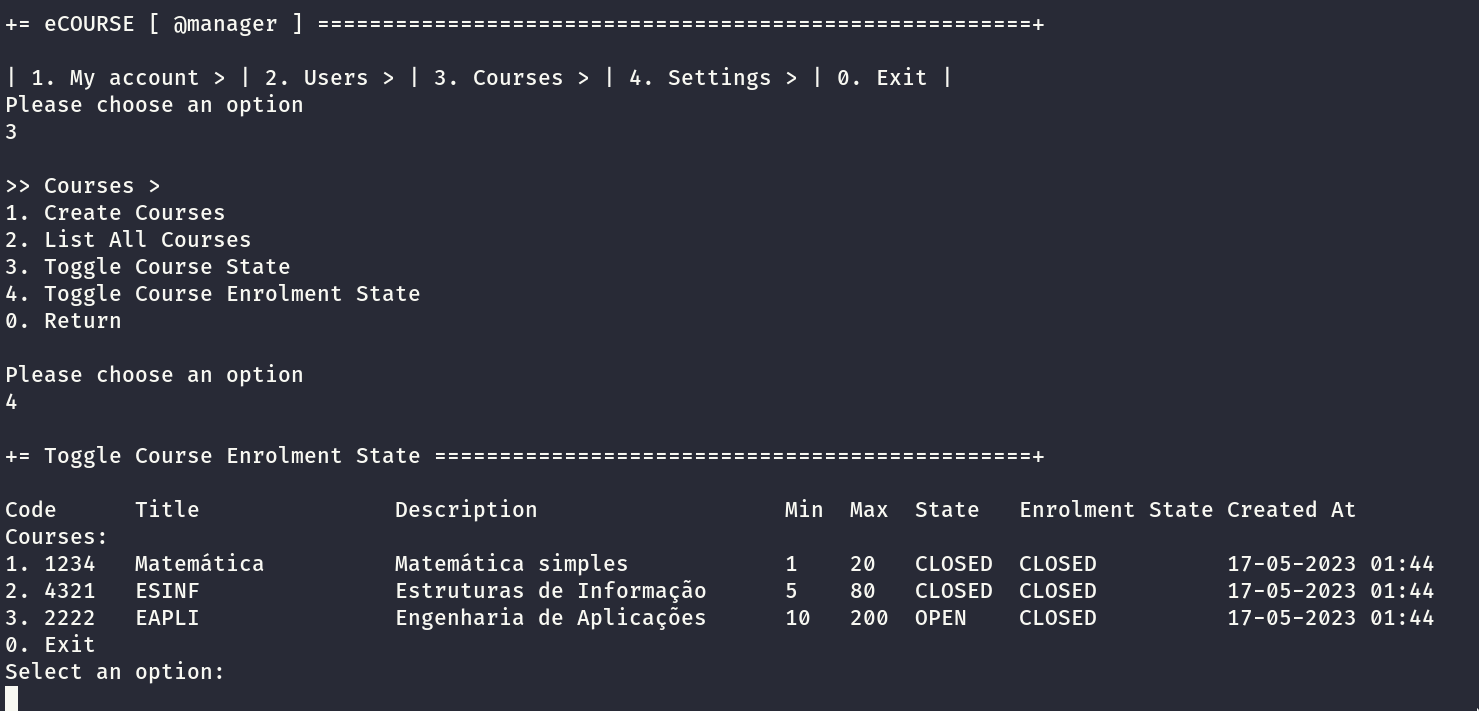
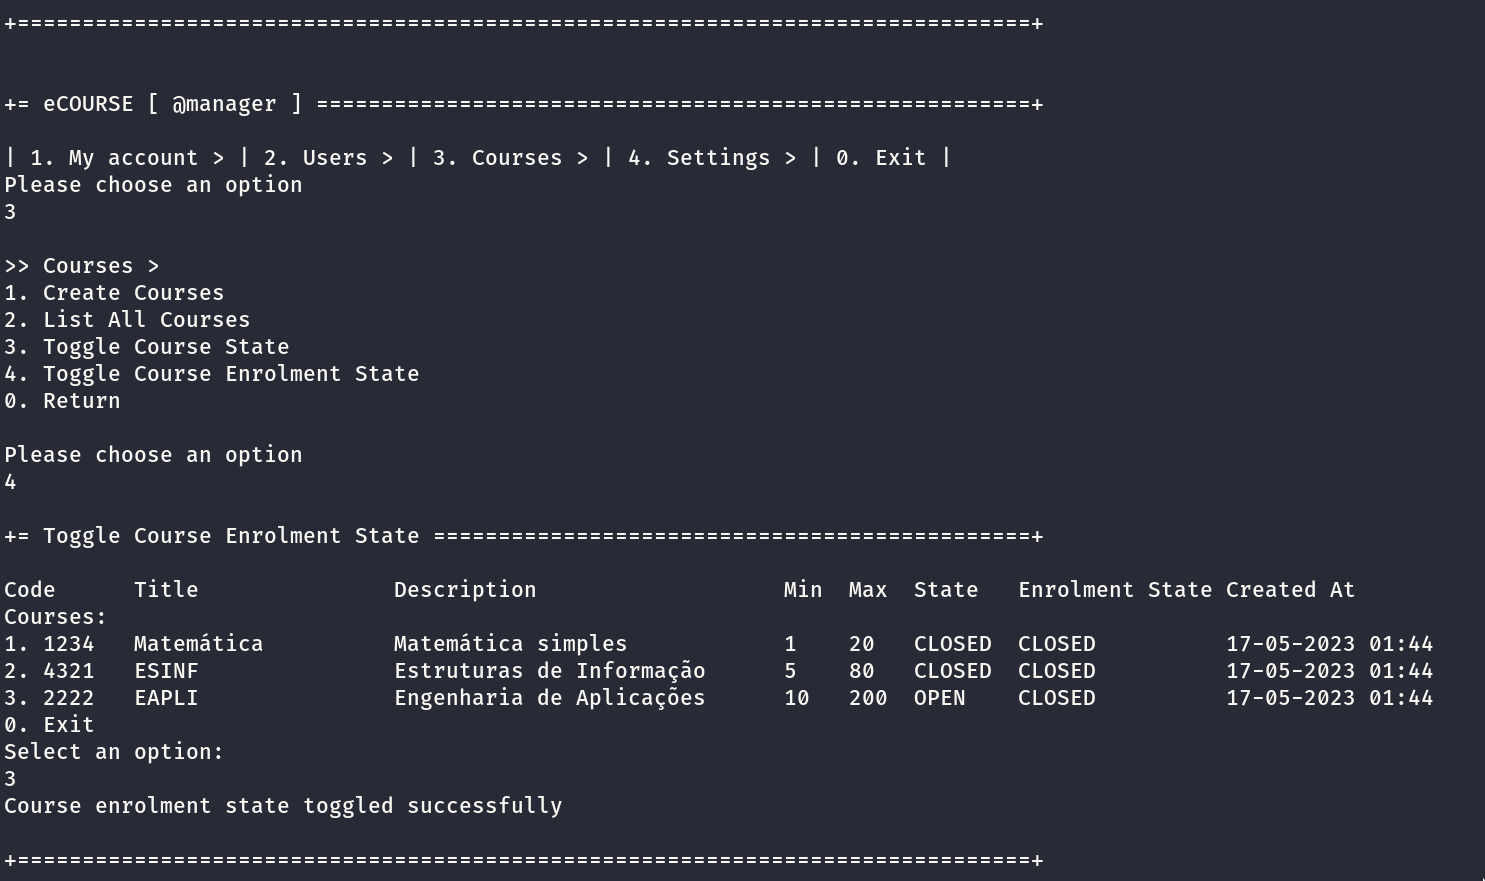
fix: fixed duplicated enrolment (#17)

diff --git a/ecourse.app.student.console/src/main/java/eapli/ecourse/app/student/console/presentation/MainMenu.java b/ecourse.app.student.console/src/main/java/eapli/ecourse/app/student/console/presentation/MainMenu.java
@@ -1,12 +1,15 @@
 package eapli.ecourse.app.student.console.presentation;
 
+import eapli.ecourse.Application;
 import eapli.ecourse.app.common.console.presentation.authz.MyUserMenu;
 import eapli.framework.actions.Actions;
 import eapli.framework.actions.menu.Menu;
 import eapli.framework.actions.menu.MenuItem;
 import eapli.framework.presentation.console.ExitWithMessageAction;
 import eapli.framework.presentation.console.ShowMessageAction;
+import eapli.framework.presentation.console.menu.HorizontalMenuRenderer;
 import eapli.framework.presentation.console.menu.MenuItemRenderer;
+import eapli.framework.presentation.console.menu.MenuRenderer;
 import eapli.framework.presentation.console.menu.VerticalMenuRenderer;
 
 /**
@@ -49,30 +52,40 @@ class MainMenu extends StudentBaseUI {
   @Override
   public boolean doShow() {
     final Menu menu = buildMainMenu();
-    final var renderer = new VerticalMenuRenderer(menu, MenuItemRenderer.DEFAULT);
+    final MenuRenderer renderer = getRenderer(menu);
+
     return renderer.render();
+  }
+
+  private MenuRenderer getRenderer(final Menu menu) {
+    final MenuRenderer theRenderer;
+    if (Application.settings().isMenuLayoutHorizontal()) {
+      theRenderer = new HorizontalMenuRenderer(menu, MenuItemRenderer.DEFAULT);
+    } else {
+      theRenderer = new VerticalMenuRenderer(menu, MenuItemRenderer.DEFAULT);
+    }
+    return theRenderer;
   }
 
   private Menu buildMainMenu() {
     final Menu mainMenu = new Menu();
 
+    if (!Application.settings().isMenuLayoutHorizontal())
+      mainMenu.addItem(MenuItem.separator(SEPARATOR_LABEL));
+
     final Menu myUserMenu = new MyUserMenu();
     mainMenu.addSubMenu(MY_USER_OPTION, myUserMenu);
-
-    mainMenu.addItem(MenuItem.separator(SEPARATOR_LABEL));
 
     final Menu accountMenu = buildAccountMenu();
     mainMenu.addSubMenu(ACCOUNT_OPTION, accountMenu);
 
-    mainMenu.addItem(MenuItem.separator(SEPARATOR_LABEL));
-
     mainMenu.addItem(REQUEST_ENROLMENT_OPTION, "Request enrolment", new RequestEnrolmentUI()::show);
-    mainMenu.addItem(MenuItem.separator(SEPARATOR_LABEL));
 
     final Menu settingsMenu = buildAdminSettingsMenu();
     mainMenu.addSubMenu(SETTINGS_OPTION, settingsMenu);
 
-    mainMenu.addItem(MenuItem.separator(SEPARATOR_LABEL));
+    if (!Application.settings().isMenuLayoutHorizontal())
+      mainMenu.addItem(MenuItem.separator(SEPARATOR_LABEL));
 
     mainMenu.addItem(EXIT_OPTION, "Exit", new ExitWithMessageAction("Bye, Bye"));
 

diff --git a/ecourse.persistence.impl/src/main/java/eapli/ecourse/persistence/impl/jpa/JpaEnrolmentRepository.java b/ecourse.persistence.impl/src/main/java/eapli/ecourse/persistence/impl/jpa/JpaEnrolmentRepository.java
@@ -1,5 +1,9 @@
 package eapli.ecourse.persistence.impl.jpa;
 
+import java.util.HashMap;
+import java.util.Map;
+import java.util.Optional;
+
 import eapli.ecourse.coursemanagement.domain.CourseCode;
 import eapli.ecourse.enrolmentmanagement.domain.Enrolment;
 import eapli.ecourse.enrolmentmanagement.domain.EnrolmentID;
@@ -13,11 +17,11 @@ public class JpaEnrolmentRepository extends JpaAutoTxRepository<Enrolment, Enrol
     implements EnrolmentRepository {
 
   public JpaEnrolmentRepository(final TransactionalContext autoTx) {
-    super(autoTx, "enrolmentID");
+    super(autoTx, "id");
   }
 
   public JpaEnrolmentRepository(final String puname) {
-    super(puname, "enrolmentID");
+    super(puname, "id");
   }
 
   @Override
@@ -41,5 +45,16 @@ public class JpaEnrolmentRepository extends JpaAutoTxRepository<Enrolment, Enrol
   public Iterable<Enrolment> findCourseRejected(final CourseCode courseCode) {
     return match("e.course.code = :courseCode AND e.state = :state", "courseCode", courseCode,
         "state", EnrolmentState.State.REJECTED);
+  }
+
+  @Override
+  public Optional<Enrolment> findWithUserAndCourse(final MecanographicNumber studentID,
+      final CourseCode courseCode) {
+    Map<String, Object> params = new HashMap<>();
+    params.put("studentID", studentID);
+    params.put("courseCode", courseCode);
+
+    return matchOne("e.student.mecanographicNumber = :studentID AND e.course.code = :courseCode",
+        params);
   }
 }

diff --git a/ecourse.persistence.impl/src/main/java/eapli/ecourse/persistence/impl/inmemory/InMemoryEnrolmentRepository.java b/ecourse.persistence.impl/src/main/java/eapli/ecourse/persistence/impl/inmemory/InMemoryEnrolmentRepository.java
@@ -1,5 +1,7 @@
 package eapli.ecourse.persistence.impl.inmemory;
 
+import java.util.Optional;
+
 import eapli.ecourse.coursemanagement.domain.CourseCode;
 import eapli.ecourse.enrolmentmanagement.domain.Enrolment;
 import eapli.ecourse.enrolmentmanagement.domain.EnrolmentID;
@@ -34,5 +36,12 @@ public class InMemoryEnrolmentRepository
   @Override
   public Iterable<Enrolment> findCourseRejected(final CourseCode courseCode) {
     return match(e -> e.course().code().equals(courseCode) && e.isRejected());
+  }
+
+  @Override
+  public Optional<Enrolment> findWithUserAndCourse(final MecanographicNumber studentID,
+      final CourseCode courseCode) {
+    return matchOne(e -> e.student().mecanographicNumber().equals(studentID)
+        && e.course().code().equals(courseCode));
   }
 }

diff --git a/ecourse.app.backoffice.console/src/main/java/eapli/ecourse/app/backoffice/console/presentation/course/ToggleCourseEnrolmentStateUI.java b/ecourse.app.backoffice.console/src/main/java/eapli/ecourse/app/backoffice/console/presentation/course/ToggleCourseEnrolmentStateUI.java
@@ -38,11 +38,11 @@ public class ToggleCourseEnrolmentStateUI extends AbstractUI {
 
     try {
       this.ctrl.toggleEnrolmentState(selected);
-      System.out.println("Course enrolment state toggled successfully\n");
+      System.out.println("\n\nCourse enrolment state toggled successfully\n");
     } catch (IllegalArgumentException e) {
-      System.out.println("There is no course with the given code\n");
+      System.out.println("\n\nThere is no course with the given code\n");
     } catch (IllegalStateException e) {
-      System.out.println("Error: " + e.getMessage() + "\n");
+      System.out.println("\n\nError: " + e.getMessage() + "\n");
     }
 
     return false;

diff --git a/ecourse.core/src/main/java/eapli/ecourse/enrolmentmanagement/repositories/EnrolmentRepository.java b/ecourse.core/src/main/java/eapli/ecourse/enrolmentmanagement/repositories/EnrolmentRepository.java
@@ -1,5 +1,7 @@
 package eapli.ecourse.enrolmentmanagement.repositories;
 
+import java.util.Optional;
+
 import eapli.ecourse.coursemanagement.domain.CourseCode;
 import eapli.ecourse.enrolmentmanagement.domain.Enrolment;
 import eapli.ecourse.enrolmentmanagement.domain.EnrolmentID;
@@ -14,4 +16,6 @@ public interface EnrolmentRepository extends DomainRepository<EnrolmentID, Enrol
   public Iterable<Enrolment> findCourseAccepted(CourseCode courseCode);
 
   public Iterable<Enrolment> findCourseRejected(CourseCode courseCode);
+
+  public Optional<Enrolment> findWithUserAndCourse(MecanographicNumber studentID, CourseCode courseCode);
 }

diff --git a/ecourse.core/src/main/java/eapli/ecourse/enrolmentmanagement/application/RequestEnrolmentController.java b/ecourse.core/src/main/java/eapli/ecourse/enrolmentmanagement/application/RequestEnrolmentController.java
@@ -45,6 +45,9 @@ public class RequestEnrolmentController {
     Course course = courseRepository.ofIdentity(courseDTO.getCode()).orElseThrow();
     Enrolment enrolment = new Enrolment(student, course);
 
+    if (enrolmentRepository.findWithUserAndCourse(student.identity(), course.code()).isPresent())
+      throw new IllegalStateException("You are already enrolled in this course");
+
     return enrolmentRepository.save(enrolment).toDto();
   }
 }

diff --git a/ecourse.app.student.console/src/main/java/eapli/ecourse/app/student/console/presentation/RequestEnrolmentUI.java b/ecourse.app.student.console/src/main/java/eapli/ecourse/app/student/console/presentation/RequestEnrolmentUI.java
@@ -44,9 +44,11 @@ public class RequestEnrolmentUI extends AbstractUI {
     try {
       controller.requestEnrolment(selected);
     } catch (IllegalStateException e) {
-      System.out.println("You are already enrolled in this course");
+      System.out.println("\n\n" + e.getMessage());
       return false;
     }
+
+    System.out.println("\n\nEnrolment requested successfully");
 
     return true;
   }

diff --git a/docs/sprint-b/us14-1008/README.md b/docs/sprint-b/us14-1008/README.md
@@ -99,13 +99,28 @@ _Note: This are some simplified versions of the tests for readability purposes._
     Course course = courseRepository.ofIdentity(courseDTO.getCode()).orElseThrow();
     Enrolment enrolment = new Enrolment(student, course);
 
+    if (enrolmentRepository.contains(enrolment))
+      throw new IllegalStateException("You are already enrolled in this course");
+
     return enrolmentRepository.save(enrolment).toDto();
   }
 ```
 
 ## 6. Integration & Demonstration
 
+### 6.1. Success scenario
+
 ![US1008_DEMO](US1008_DEMO.png)
+
+### 6.2. Failure scenarios
+
+#### 6.2.1. No courses available
+
+![US1008_DEMO__FAIL1](US1008_DEMO_FAIL.png)
+
+#### 6.2.2. Already enrolled
+
+![US1008_DEMO__FAIL2](US1008_DEMO_FAIL2.png)
 
 ## 7. Observations
 

diff --git a/docs/sprint-b/us09-1003/README.md b/docs/sprint-b/us09-1003/README.md
@@ -191,7 +191,13 @@ _Note: This are some simplified versions of the tests for readability purposes._
 
 ## 6. Integration & Demonstration
 
+### 6.1. Success scenario
+
 ![US1003_DEMO](US1003_DEMO.png)
+
+### 6.2. Failure scenario
+
+![US1003_DEMO_FAIL](US1003_DEMO_FAIL.png)
 
 ## 7. Observations
 
